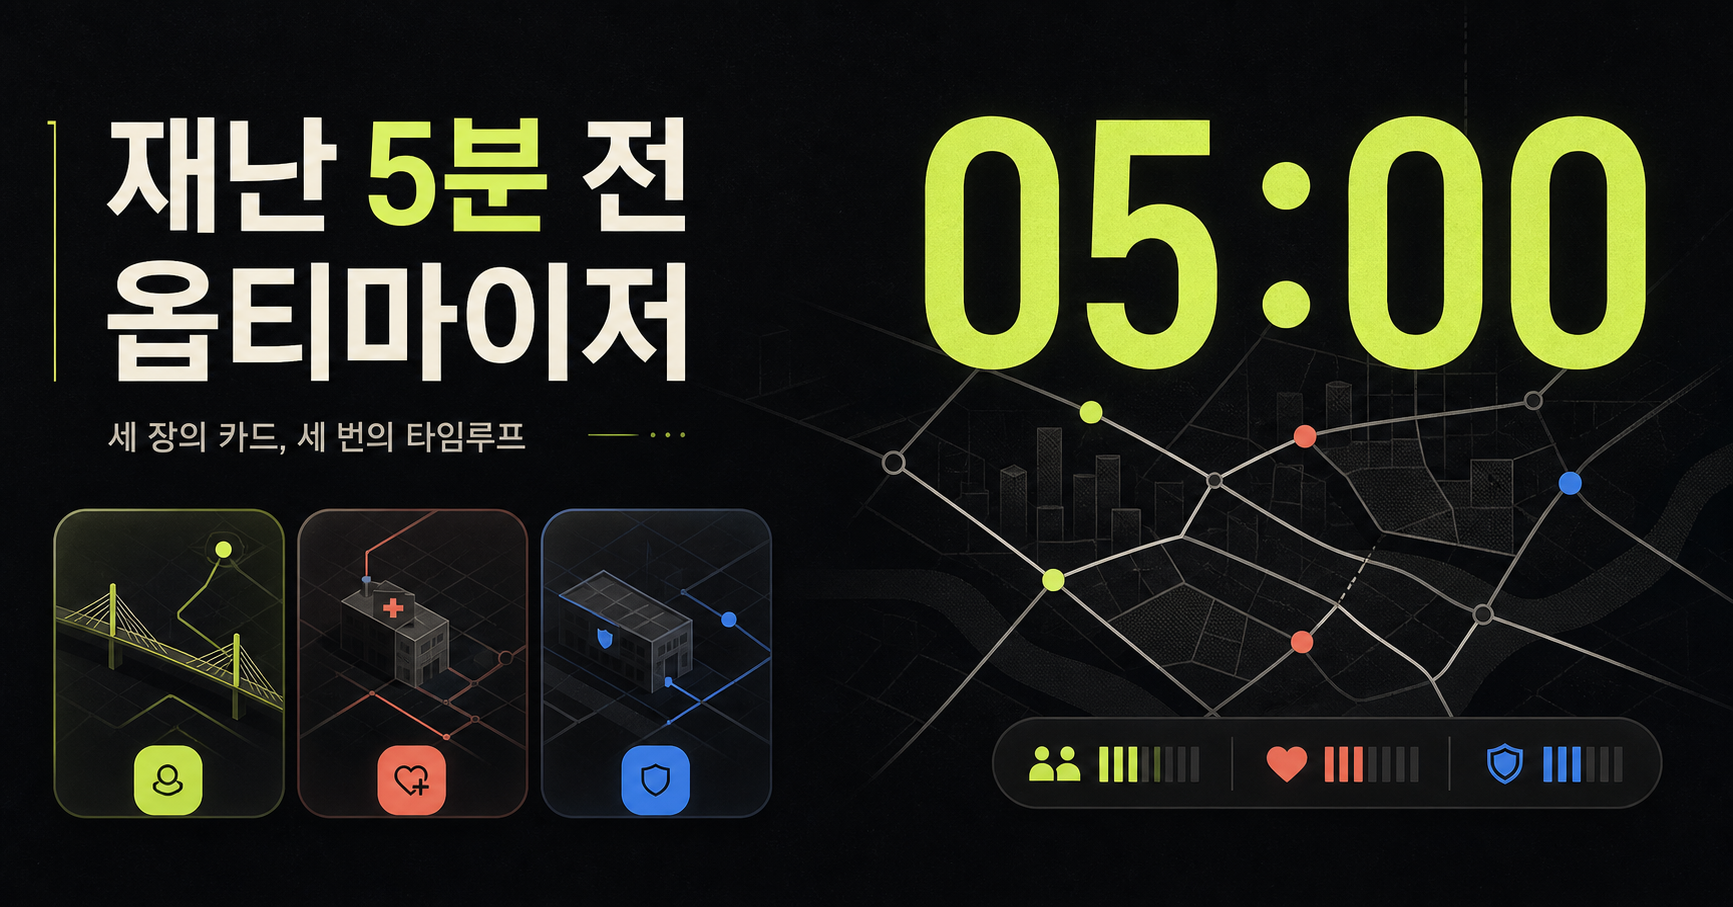
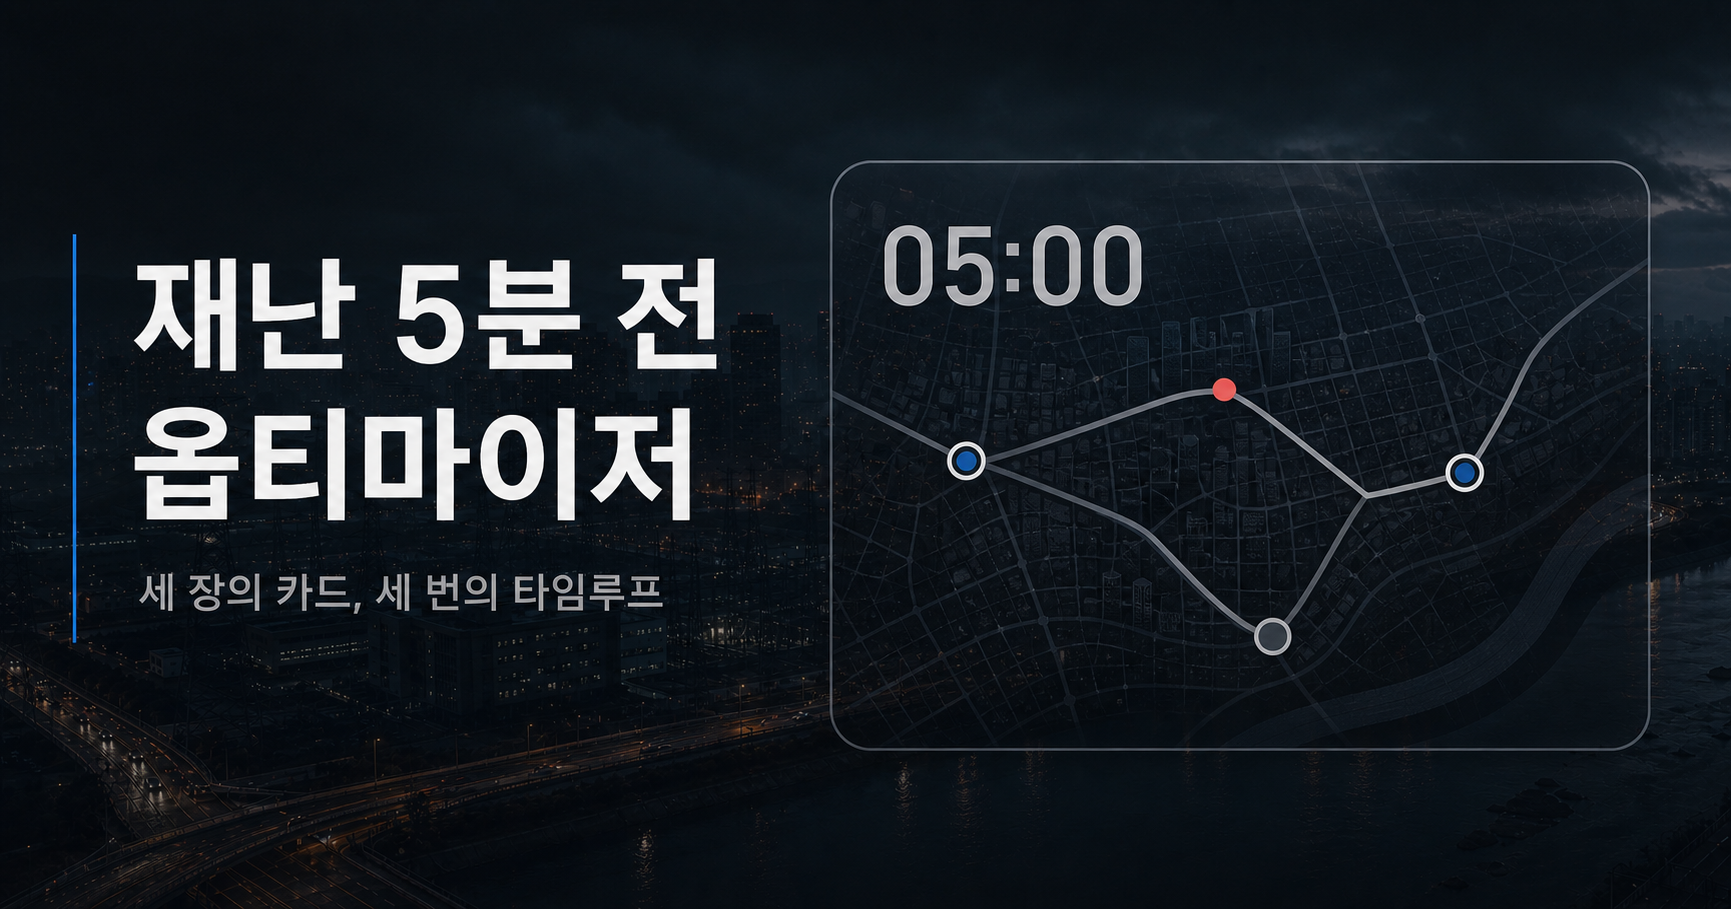
Refresh social preview for redesigned interface

diff --git a/app/layout.tsx b/app/layout.tsx
@@ -15,7 +15,7 @@ export async function generateMetadata(): Promise<Metadata> {
     // Keep the local fallback when proxy headers are malformed.
   }
   const description =
-    "병목, 확률, 파레토 지표로 최선의 도시 대피 전략을 설계하는 AI 타임루프 챌린지";
+    "세 장의 카드와 세 번의 타임루프로 도시의 다음 5분을 설계하는 재난 대응 시뮬레이션";
   const image = new URL("/og.png", origin).toString();
 
   return {
@@ -25,6 +25,7 @@ export async function generateMetadata(): Promise<Metadata> {
       template: "%s | 옵티마이저",
     },
     description,
+    alternates: { canonical: "/" },
     icons: {
       icon: "/optimizer-mark.svg",
       shortcut: "/optimizer-mark.svg",
@@ -33,7 +34,7 @@ export async function generateMetadata(): Promise<Metadata> {
       title: "재난 5분 전, 옵티마이저",
       description,
       type: "website",
-      images: [{ url: image, width: 1733, height: 907, alt: "재난 5분 전, 옵티마이저" }],
+      images: [{ url: image, width: 1731, height: 909, alt: "재난 5분 전 옵티마이저 — 도시 네트워크와 5분 카운트다운" }],
     },
     twitter: {
       card: "summary_large_image",
